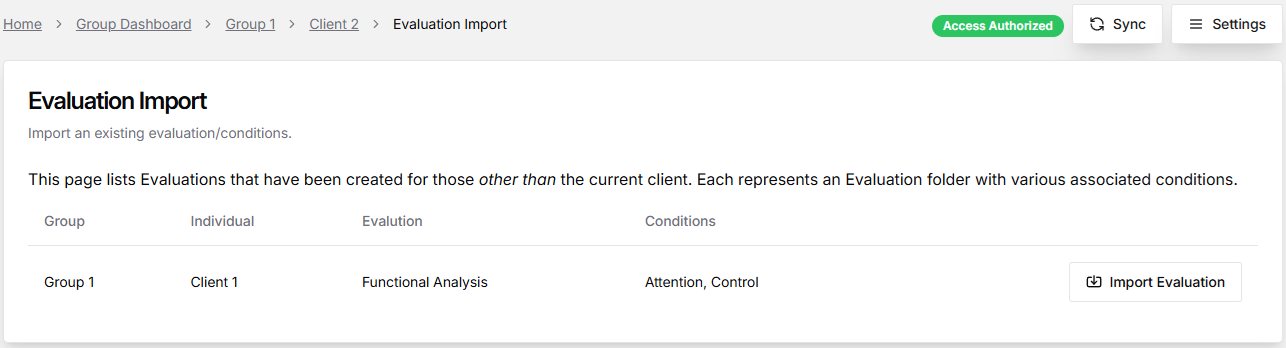
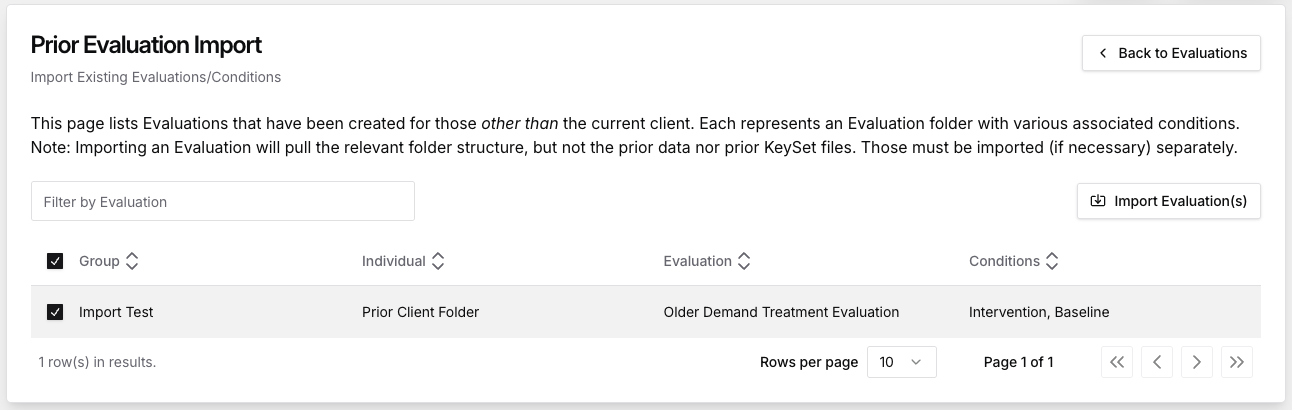
Add in evaluation import docs and ui update

diff --git a/src/components/ui/data-table-common.tsx b/src/components/ui/data-table-common.tsx
@@ -13,7 +13,7 @@ import {
   useReactTable,
   VisibilityState,
 } from '@tanstack/react-table';
-import { useState } from 'react';
+import React, { ReactNode, useState } from 'react';
 import { Checkbox } from './checkbox';
 import type { Row, Table as TableData } from '@tanstack/react-table';
 import { Button } from './button';
@@ -30,6 +30,8 @@ interface DataTableProps<TData, TValue> {
   rowSelectOptions?: RowSelectOptions;
   optionalButtons?: React.ReactNode;
   settings: ApplicationSettingsTypes;
+  forceShowCheckbox?: boolean;
+  customCheckboxButton?: ReactNode;
   callback?: (rows: TData[]) => void;
 }
 
@@ -38,6 +40,8 @@ export function DataTable<TData, TValue>({
   data,
   filterCol,
   optionalButtons,
+  forceShowCheckbox,
+  customCheckboxButton,
   callback,
   settings,
   rowSelectOptions = 'None',
@@ -47,7 +51,7 @@ export function DataTable<TData, TValue>({
   const [columnVisibility, setColumnVisibility] = useState<VisibilityState>({});
 
   const newColumns =
-    callback && settings.EnableFileDeletion
+    (callback && settings.EnableFileDeletion) || forceShowCheckbox
       ? [
           {
             id: 'select',
@@ -99,6 +103,49 @@ export function DataTable<TData, TValue>({
     },
   });
 
+  function DynamicButton({ callback }: { callback: (rows: TData[]) => void }): ReactNode {
+    if (customCheckboxButton) {
+      return (
+        <Button
+          variant={'outline'}
+          size={'sm'}
+          className={cn('shadow transition-opacity opacity-0 ease-in-out pointer-events-none', {
+            'flex opacity-100 pointer-events-auto': table.getFilteredSelectedRowModel().rows.length > 0,
+          })}
+          onClick={() => {
+            const selectedRows = table.getFilteredSelectedRowModel().rows;
+            if (selectedRows.length > 0) {
+              callback(selectedRows.map((row) => row.original));
+              table.resetRowSelection();
+            }
+          }}
+        >
+          {customCheckboxButton}
+        </Button>
+      );
+    }
+
+    return (
+      <Button
+        variant={'destructive'}
+        size={'sm'}
+        className={cn('shadow transition-opacity opacity-0 ease-in-out pointer-events-none', {
+          'flex opacity-100 pointer-events-auto': table.getFilteredSelectedRowModel().rows.length > 0,
+        })}
+        onClick={() => {
+          const selectedRows = table.getFilteredSelectedRowModel().rows;
+          if (selectedRows.length > 0) {
+            callback(selectedRows.map((row) => row.original));
+            table.resetRowSelection();
+          }
+        }}
+      >
+        <Delete className="mr-2 h-4 w-4" />
+        Delete
+      </Button>
+    );
+  }
+
   return (
     <div className="">
       <div className="flex justify-between items-center py-4">
@@ -114,25 +161,7 @@ export function DataTable<TData, TValue>({
         )}
 
         <div className="flex gap-2">
-          {callback && (
-            <Button
-              variant={'destructive'}
-              size={'sm'}
-              className={cn('shadow transition-opacity opacity-0 ease-in-out pointer-events-none', {
-                'flex opacity-100 pointer-events-auto': table.getFilteredSelectedRowModel().rows.length > 0,
-              })}
-              onClick={() => {
-                const selectedRows = table.getFilteredSelectedRowModel().rows;
-                if (selectedRows.length > 0) {
-                  callback(selectedRows.map((row) => row.original));
-                  table.resetRowSelection();
-                }
-              }}
-            >
-              <Delete className="mr-2 h-4 w-4" />
-              Delete
-            </Button>
-          )}
+          {callback && <DynamicButton callback={callback} />}
 
           {optionalButtons}
         </div>

diff --git a/src/components/pages/viewer-evaluations/viewer-evaluations-page.tsx b/src/components/pages/viewer-evaluations/viewer-evaluations-page.tsx
@@ -5,7 +5,6 @@ import {
   BuildIndividualsBreadcrumb,
   BuildEvaluationsBreadcrumb,
 } from '@/components/ui/breadcrumb-entries';
-import { Button } from '@/components/ui/button';
 import { Card, CardContent, CardDescription, CardHeader, CardTitle } from '@/components/ui/card';
 import { DataTableColumnHeader } from '@/components/ui/data-table-column-header';
 import { DataTable } from '@/components/ui/data-table-common';
@@ -18,6 +17,7 @@ import { CleanUpString } from '@/lib/strings';
 import { ColumnDef } from '@tanstack/react-table';
 import { ImportIcon } from 'lucide-react';
 import { redirect, useLoaderData } from 'react-router-dom';
+import { toast } from 'sonner';
 
 type LoaderResult = {
   Group: string;
@@ -52,7 +52,7 @@ export default function ViewerEvaluationsPage() {
   const loaderResult = useLoaderData() as LoaderResult;
   const { Group, Individual, Context } = loaderResult;
 
-  const { data, status, error, addEvaluationFolder } = useQueryEvaluationsMetaFixed(Group, Individual, Context);
+  const { data, status, error, addEvaluationFolders } = useQueryEvaluationsMetaFixed(Group, Individual, Context);
 
   if (status === 'loading') {
     return <LoadingDisplay />;
@@ -85,25 +85,8 @@ export default function ViewerEvaluationsPage() {
     },
     {
       accessorKey: 'Conditions',
-      header: ({ column }) => <DataTableColumnHeader column={column} title="Evaluation" />,
+      header: ({ column }) => <DataTableColumnHeader column={column} title="Conditions" />,
       cell: ({ row }) => <div className="flex flex-row gap-1">{row.original.Conditions.join(', ')}</div>,
-    },
-    {
-      accessorKey: 'Actions',
-      header: () => <div className="text-right">Import Actions</div>,
-      cell: ({ row }) => (
-        <div className="flex flex-row justify-end">
-          <Button
-            variant={'outline'}
-            onClick={async () => {
-              await addEvaluationFolder(row.original);
-            }}
-          >
-            <ImportIcon className="h-4 w-4 mr-2" />
-            Import Evaluation
-          </Button>
-        </div>
-      ),
     },
   ];
 
@@ -132,10 +115,35 @@ export default function ViewerEvaluationsPage() {
         <CardContent className="flex flex-col gap-1.5">
           <p>
             This page lists Evaluations that have been created for those <i>other than</i> the current client. Each
-            represents an Evaluation folder with various associated conditions.
+            represents an Evaluation folder with various associated conditions. Note: Importing an Evaluation will pull
+            the relevant folder structure, but not the prior data nor prior KeySet files. Those must be imported (if
+            necessary) separately.
           </p>
 
-          <DataTable settings={Context.settings} columns={columns} data={filtered_data} filterCol="Evaluation" />
+          <DataTable
+            settings={Context.settings}
+            columns={columns}
+            data={filtered_data}
+            forceShowCheckbox
+            filterCol="Evaluation"
+            customCheckboxButton={
+              <>
+                <ImportIcon className="h-4 w-4 mr-2" />
+                Import Evaluation(s)
+              </>
+            }
+            callback={(rows) => {
+              toast.promise(async () => await addEvaluationFolders(rows), {
+                loading: 'Deleting client folders...',
+                success: () => {
+                  return 'Client folders have been deleted successfully!';
+                },
+                error: () => {
+                  return 'An error occurred while deleting client folders.';
+                },
+              });
+            }}
+          />
         </CardContent>
       </Card>
     </PageWrapper>

diff --git a/src/hooks/evaluations/useQueryEvaluationsMeta.tsx b/src/hooks/evaluations/useQueryEvaluationsMeta.tsx
@@ -16,6 +16,10 @@ export function useQueryEvaluationsMetaFixed(Group: string, Client: string, Cont
 
   const incrementVersion = () => setVersion((prev) => prev + 1);
 
+  /**
+   * @deprecated This function is deprecated and will be removed in future versions.
+   * @param evaluation The evaluation record to add
+   */
   const addEvaluationFolder = async (evaluation: EvaluationRecord) => {
     const g_folder = await handle!.getDirectoryHandle(Group);
     const i_folder = await g_folder.getDirectoryHandle(Client);
@@ -26,6 +30,14 @@ export function useQueryEvaluationsMetaFixed(Group: string, Client: string, Cont
     }
 
     toast.success('Evaluation successfully imported.');
+
+    incrementVersion();
+  };
+
+  const addEvaluationFolders = async (evaluations: EvaluationRecord[]) => {
+    for (const evaluation of evaluations) {
+      await addEvaluationFolder(evaluation);
+    }
 
     incrementVersion();
   };
@@ -46,6 +58,7 @@ export function useQueryEvaluationsMetaFixed(Group: string, Client: string, Cont
       handle,
       refresh: incrementVersion,
       addEvaluationFolder,
+      addEvaluationFolders,
     };
   }
 
@@ -56,5 +69,6 @@ export function useQueryEvaluationsMetaFixed(Group: string, Client: string, Cont
     handle,
     refresh: incrementVersion,
     addEvaluationFolder,
+    addEvaluationFolders,
   };
 }

diff --git a/src/assets/content/007-import_evaluations.md b/src/assets/content/007-import_evaluations.md
@@ -6,7 +6,7 @@ keywords: 'Behavioral Procedures, Data Organization'
 author: 'Shawn Gilroy'
 ---
 
-The DataTracker program allows for the importing of _existing_ **Evaluations** saved elsewhere in the program to facilitate quick and efficient design of session conditions and behavior recording. In certain situations, it may be more efficient to import **Evaluations** from other individuals rather than re-create a new evaluation. For example, certain clinics may use a common baseline assessment protocol (e.g., derivative of functional analysis) across most individuals and constructing these repeatedly would be tedious and time-consuming.
+The DataTracker program allows for the importing of _existing_ **Evaluations** saved elsewhere in the program to facilitate quick and efficient design of session conditions and behavior recording. In certain situations, it may be more efficient to import **Evaluations** from other individuals rather than re-create a new evaluation. For example, certain clinics may use a common baseline assessment protocol (e.g., some derivative of functional analysis) across most individuals and constructing these repeatedly would be tedious and time-consuming.
 
 This article will provide a brief overview of the process of importing **Evaluations** in DataTracker. As a brief review, DataTracker provides multiple ways to create **Evaluations**. These can be created manually or with the help of the 'Import Evaluation' feature
 
@@ -16,10 +16,10 @@ The first option is to manually create **Evaluations** is by using the associate
 
 ### Option B: Importing Evaluations
 
-The second option is to import **Evaluations** that have been previously saved in the program. For instance, this may be an evaluation used with _another_ client that is similar to the one you are currently working with. To begin, enter the 'Manage Evaluations' section for a specific individual. On this page, there is an option to 'Import Evaluation' from the various **Evaluations** that currently exist in the DataTracker directory. Specifically, these are **Evaluations** that have been saved in the directories of _other_ individuals. A visual of this section is provided below:
+The second option is to import **Evaluations** that have been previously saved in the program. For instance, this may be an evaluation used with _another_ client that is similar to the one you are currently working with. To begin, press the 'Open Evaluations' button for a specific individual to access the relevant **Evaluations**. On this page, there is an option to 'Import' from the various **Evaluations** that currently exist in the DataTracker directory. Specifically, these are **Evaluations** that have been saved in the directories of _other_ individuals. A visual of this section is provided below:
 
 <div align="center" width="100%">
     <img src="/docs/preview_import_evaluation_ui.png" alt="Image of DataTracker keyset import options"/>
 </div>
 
-The 'Import Evaluation' page will provide a review of various **Evaluations** that are available for import. The user can select the desired evaluation and import it into the current individual's evaluation list. This is a quick and efficient way to create **Evaluations** for a new individual that is similar to an existing individual. Pressing the relevant button to import the evaluation will add the evaluation to the **current individual's** directory. The evaluation will then be available for use and editing in the 'Manage Evaluations' section. As a reminder, this is independent of the **KeySet** used in the program, and the import of an existing **KeySet** is an independent process.
+The 'Prior Import Evaluation' page will provide a review of various **Evaluations** that are available for import. The user can select the desired evaluation and import it into the current individual's evaluation list. This is a quick and efficient way to create **Evaluations** for a new individual that is similar to an existing individual. Pressing the relevant button to import the evaluation will add the evaluation to the **current individual's** directory. The evaluation will then be available for use and editing in the 'Open Evaluation' section. As a reminder, this is independent of the **KeySet** import functionality provided in the program, and the import of any existing **KeySet** is an independent process.
